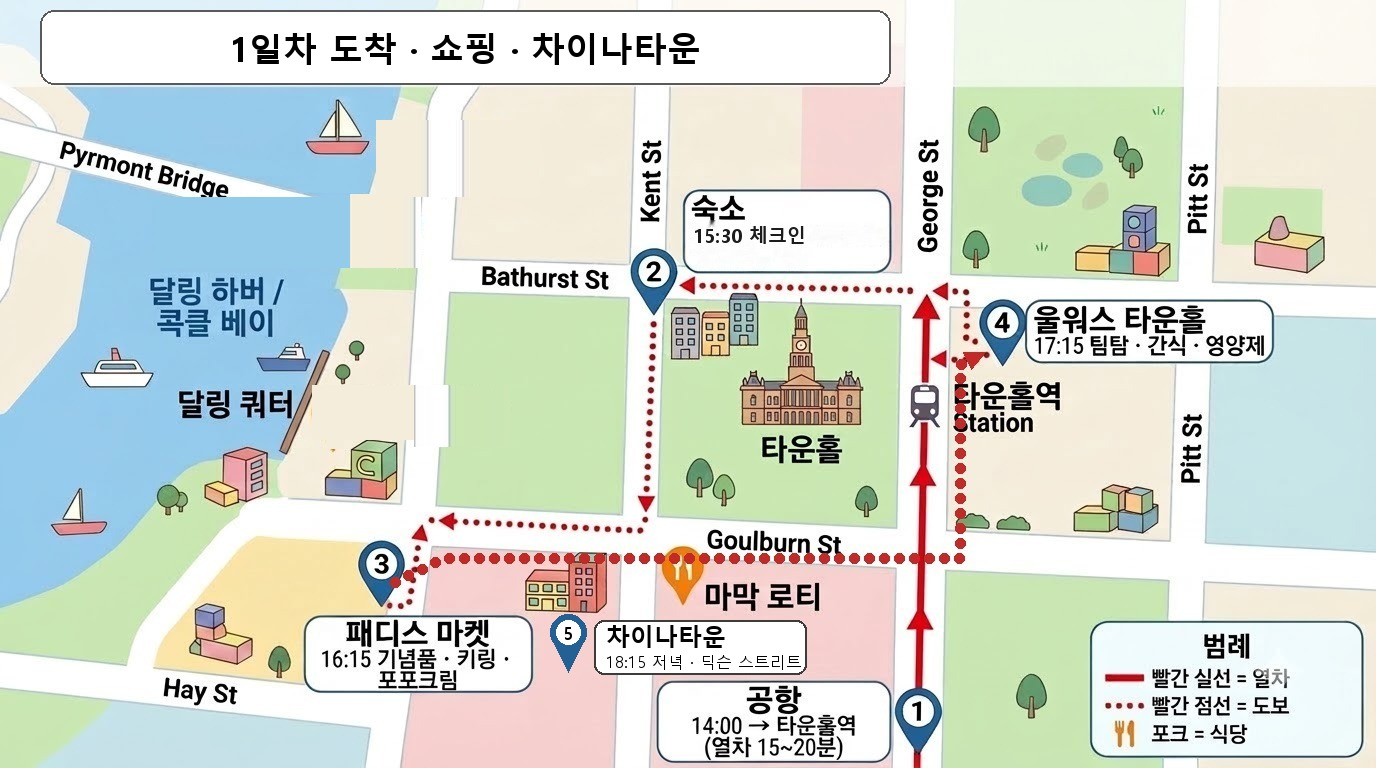
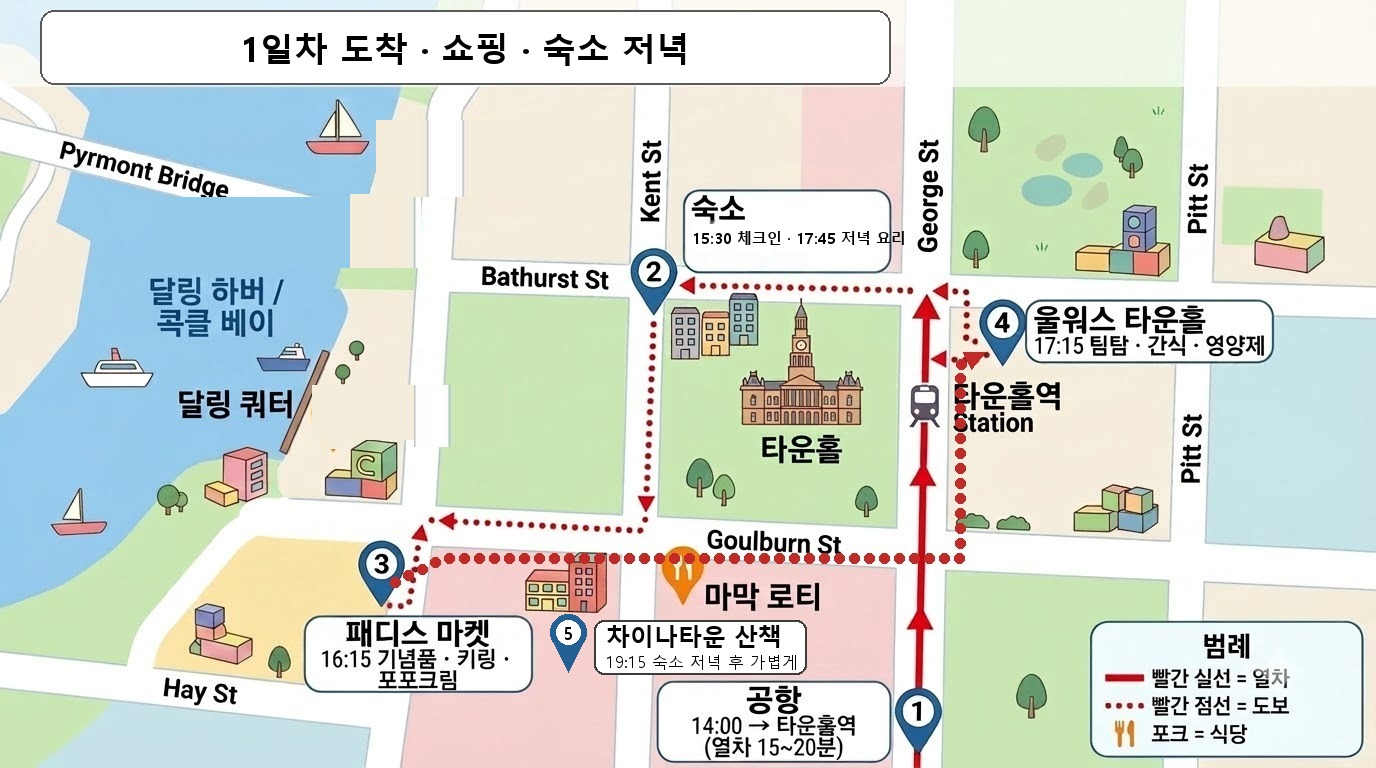
Day 1 dinner cooked at the hotel with a short Chinatown walk; cleaner day 5 night inset

Changed region(s): [[0.1562, 0.0312, 0.5, 0.0938], [0.5, 0.2812, 0.6562, 0.3438], [0.4688, 0.8125, 0.5938, 0.875]]

diff --git a/src/data.js b/src/data.js
@@ -14,20 +14,20 @@ export const TEMPLATES = {
   arrival: {
     id: 'arrival',
     tag: '도착·시내',
-    title: '도착, 숙소 근처 쇼핑과 차이나타운 저녁',
+    title: '도착, 숙소 근처 쇼핑, 숙소에서 저녁 요리',
     summary:
-      '도착일에는 숙소에서 가까운 ①패디스 마켓과 ②마트만 들르고, 차이나타운에서 저녁을 먹은 뒤 일찍 쉽니다. 달링하버 야경은 3일차 불꽃놀이 때 봅니다. 패디스 마켓은 월·화에 쉽니다. ③~⑤는 6일차, ⑥은 3일차에 들릅니다.',
+      '도착일에는 숙소에서 가까운 ①패디스 마켓과 ②마트만 들르고, 마트에서 장 본 재료로 숙소(스튜디오 주방)에서 저녁을 해 먹은 뒤 숙소 근처를 잠깐 걷고 일찍 쉽니다. 달링하버 야경은 3일차 불꽃놀이 때 봅니다. 패디스 마켓은 월·화에 쉽니다. ③~⑤는 6일차, ⑥은 3일차에 들릅니다.',
     map: '/maps/day1.jpg',
-    mapAlt: '1일차 동선: 공항 → 숙소 → 패디스 마켓 → 울워스 타운홀 → 차이나타운 저녁',
+    mapAlt: '1일차 동선: 공항 → 숙소 → 패디스 마켓 → 울워스 타운홀(장보기) → 숙소 저녁 요리 → 차이나타운 산책',
     // airport and check-in rows are added in plan.js
     items: [
       ['16:00–17:00', '쇼핑 ① 패디스 마켓', '도보 5–10분', '키링·마그넷·코알라 인형·포포크림. 18:00 마감', "Paddy's Markets Haymarket"],
-      ['17:00–17:45', '쇼핑 ② 타운홀 울월스·콜스', '도보 약 10분', '팀탐·버섯과자·영양제(노란 세일 딱지). 물·간식도', 'Woolworths Town Hall'],
-      ['17:45–18:15', '숙소에 짐 두기', '도보 약 10분', ''],
-      ['18:15–19:45', '차이나타운·헤이마켓 저녁', '도보 약 5–10분', '달링하버 야경은 3일차 불꽃놀이 때', 'Dixon Street Chinatown'],
+      ['17:00–17:45', '쇼핑 ② 타운홀 울월스·콜스', '도보 약 10분', '팀탐·버섯과자·영양제(노란 세일 딱지). 저녁 요리 재료(고기·채소·빵·과일), 다음 날 아침거리도', 'Woolworths Town Hall'],
+      ['17:45–19:15', '숙소에서 저녁 요리·식사', '도보 약 10분', '스튜디오 주방 이용. 스테이크·파스타처럼 간단한 메뉴로'],
+      ['19:15–20:00', '숙소 근처 산책: 차이나타운·헤이마켓 골목', '도보 약 5분', '피곤하면 생략', 'Dixon Street Chinatown'],
       ['20:00', '숙소, 일찍 쉬기', '도보 약 5분', '다음 날 06:00 기상(새벽 러닝)'],
     ],
-    rain: '패디스 마켓·마트·차이나타운 식당은 모두 실내라 그대로 갑니다.',
+    rain: '패디스 마켓·마트·숙소 요리는 모두 실내라 그대로 갑니다. 산책만 빼세요.',
   },
   bluemountains: {
     id: 'bluemountains',
@@ -220,7 +220,7 @@ const S = {
 const W = '워크인';
 export const MEALS = [
   {
-    tpl: 'arrival', time: '18:15', title: '저녁 — 숙소 근처 차이나타운·헤이마켓',
+    tpl: 'arrival', time: '17:45', title: '저녁 — 숙소에서 요리 (외식하고 싶으면 차이나타운·헤이마켓)',
     list: [
       ['마막 Mamak', '15 Goulburn St, 헤이마켓 (도보 5분)', '로티 카나이, 사테. 19시 전에 가기', [S.timber, S.azzurro], '워크인(예약 안 받음, 줄 빨리 빠짐)'],
       ['난징 덤플링 Nanjing Dumpling', '차이나타운', '만두·국수, 대부분 A$20 이하. 줄이 김', [S.klook], W],
@@ -228,6 +228,7 @@ export const MEALS = [
       ['차이나타운 누들 킹 Chinatown Noodle King', 'Sussex St, 차이나타운', '죽·국수. 아주 저렴', [['Time Out', 'https://www.timeout.com/sydney/things-to-do/haymarket-area-guide']], W],
       ['우메 버거 Ume Burger', '달링 스퀘어', '버거 A$16–19', [S.azzurro], W],
     ],
+    note: '기본은 울월스에서 장 봐서 숙소에서 해 먹기입니다. 아래는 외식하고 싶을 때 고르는 숙소 근처 식당입니다.',
   },
   {
     tpl: 'bluemountains', time: '11:45', title: '점심 — 투어 집결지(SEA LIFE) 근처',
